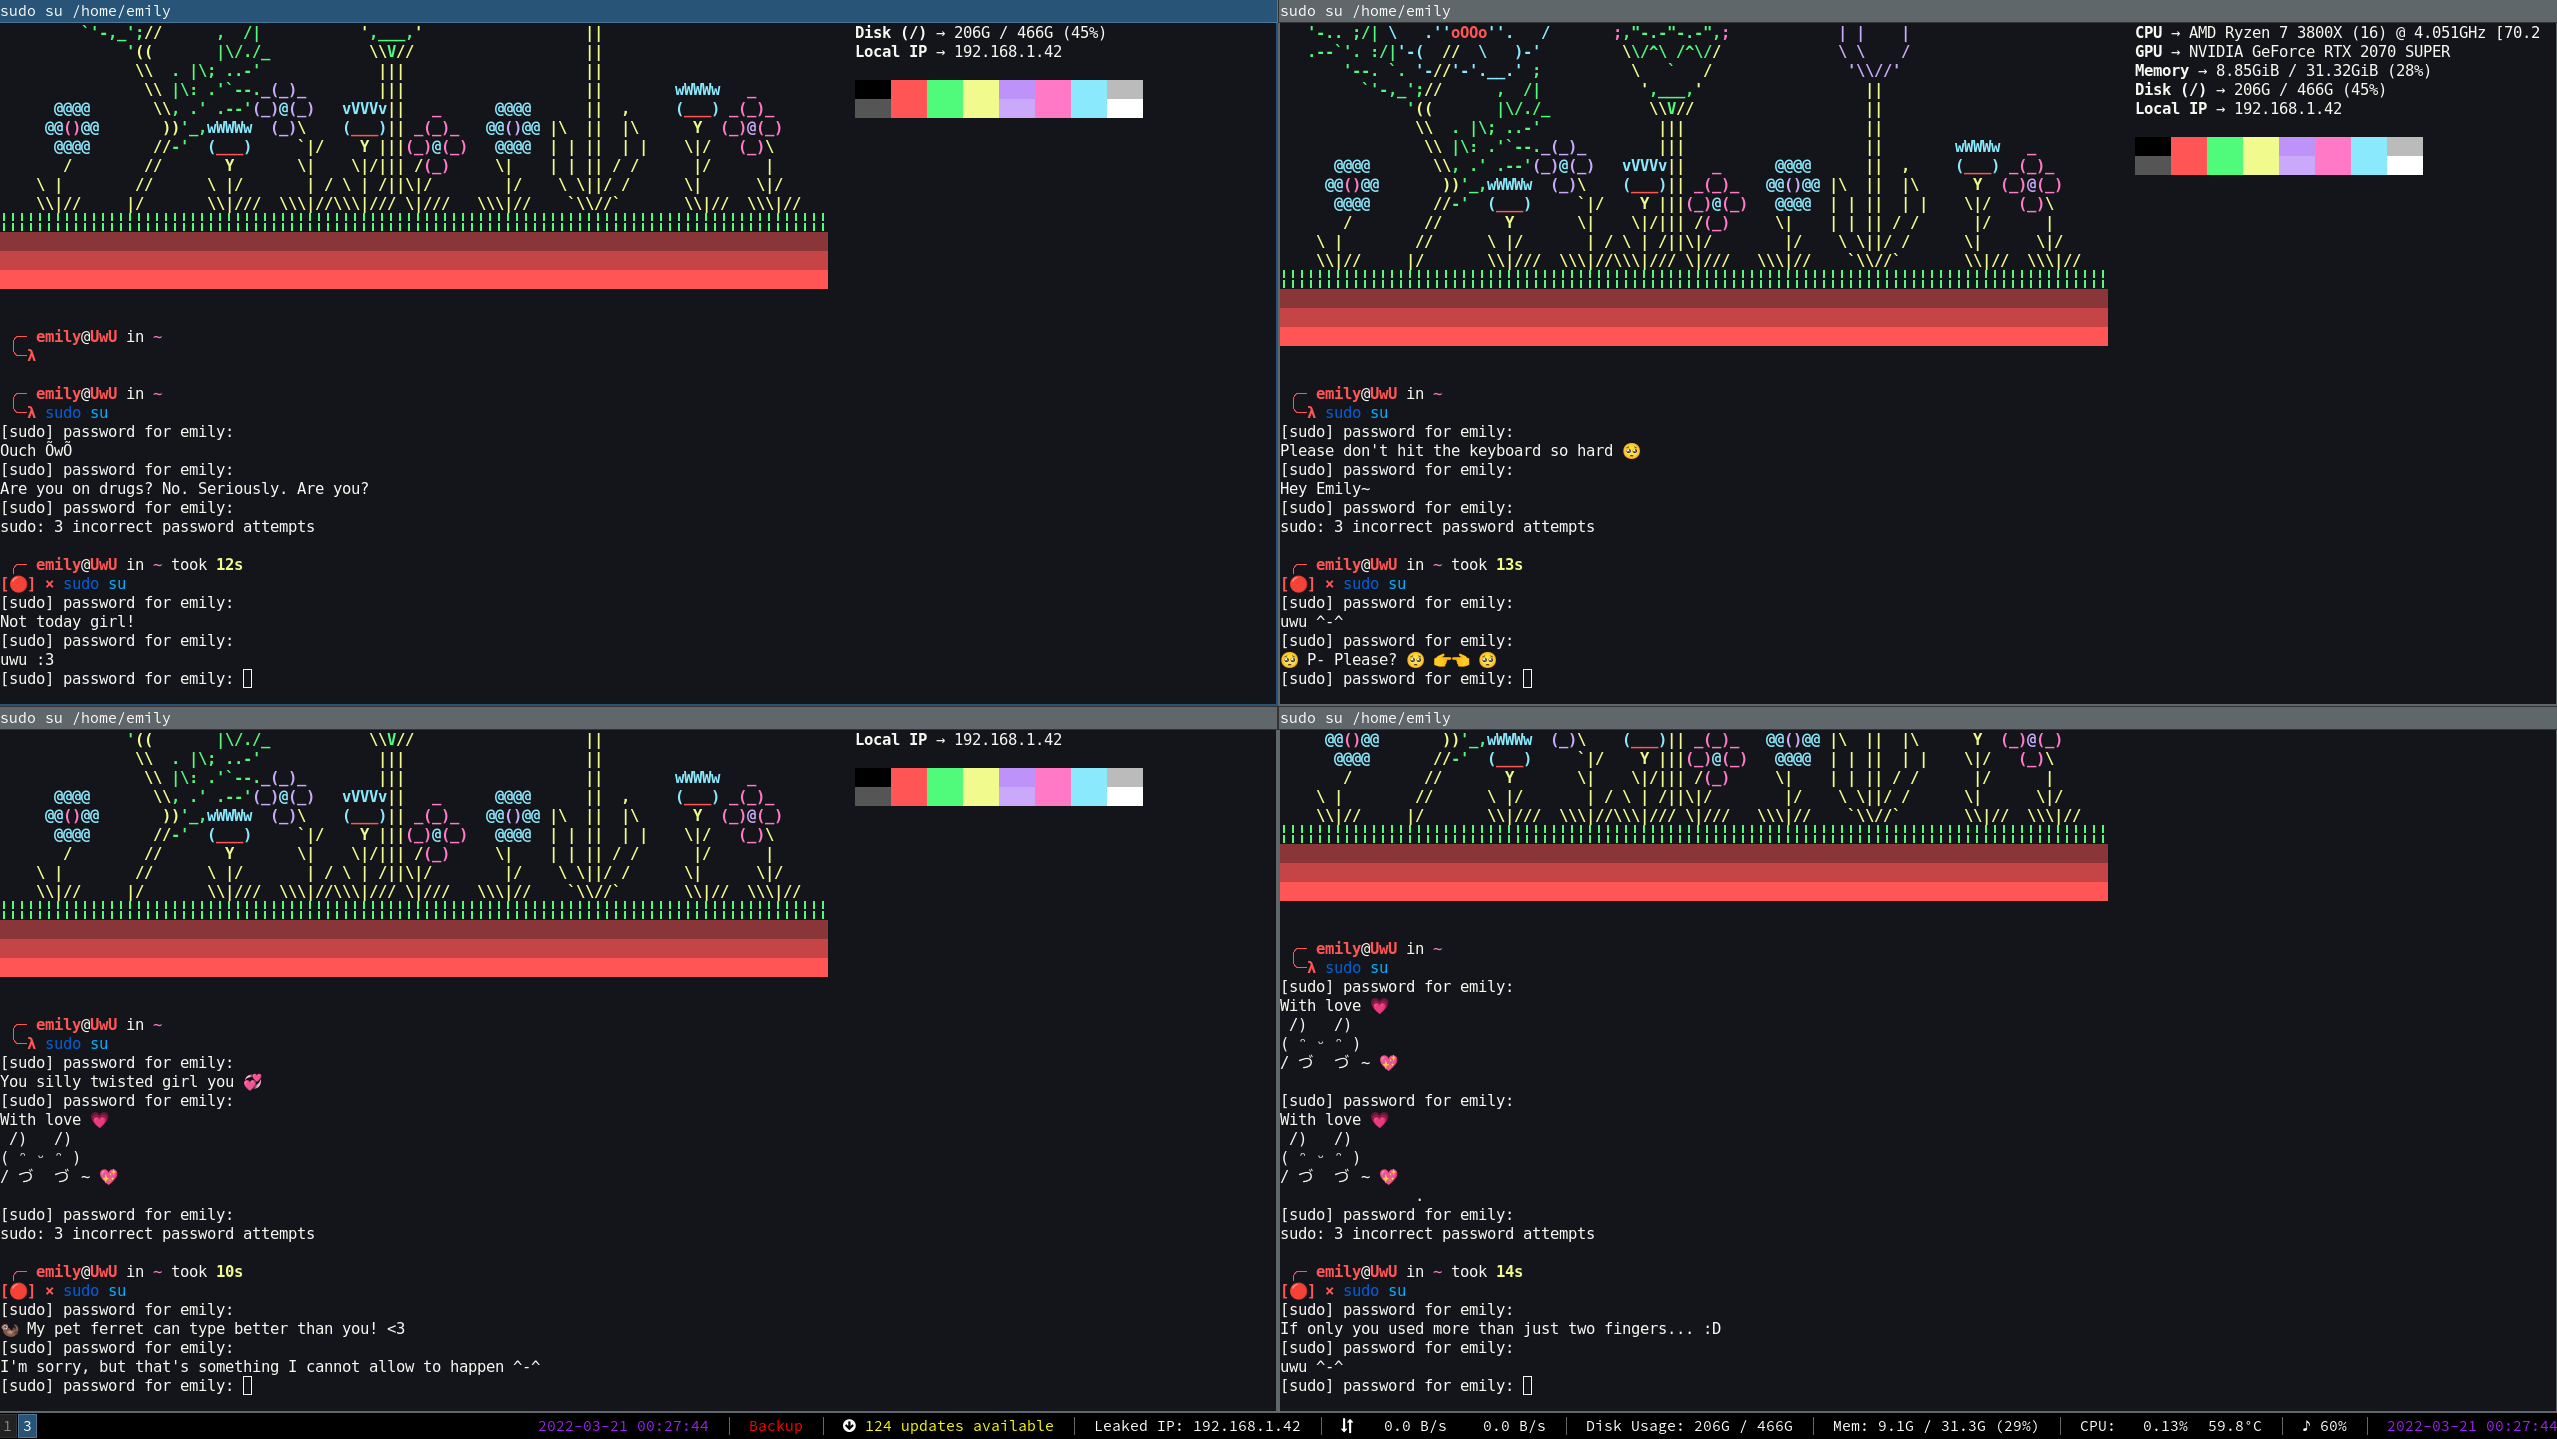
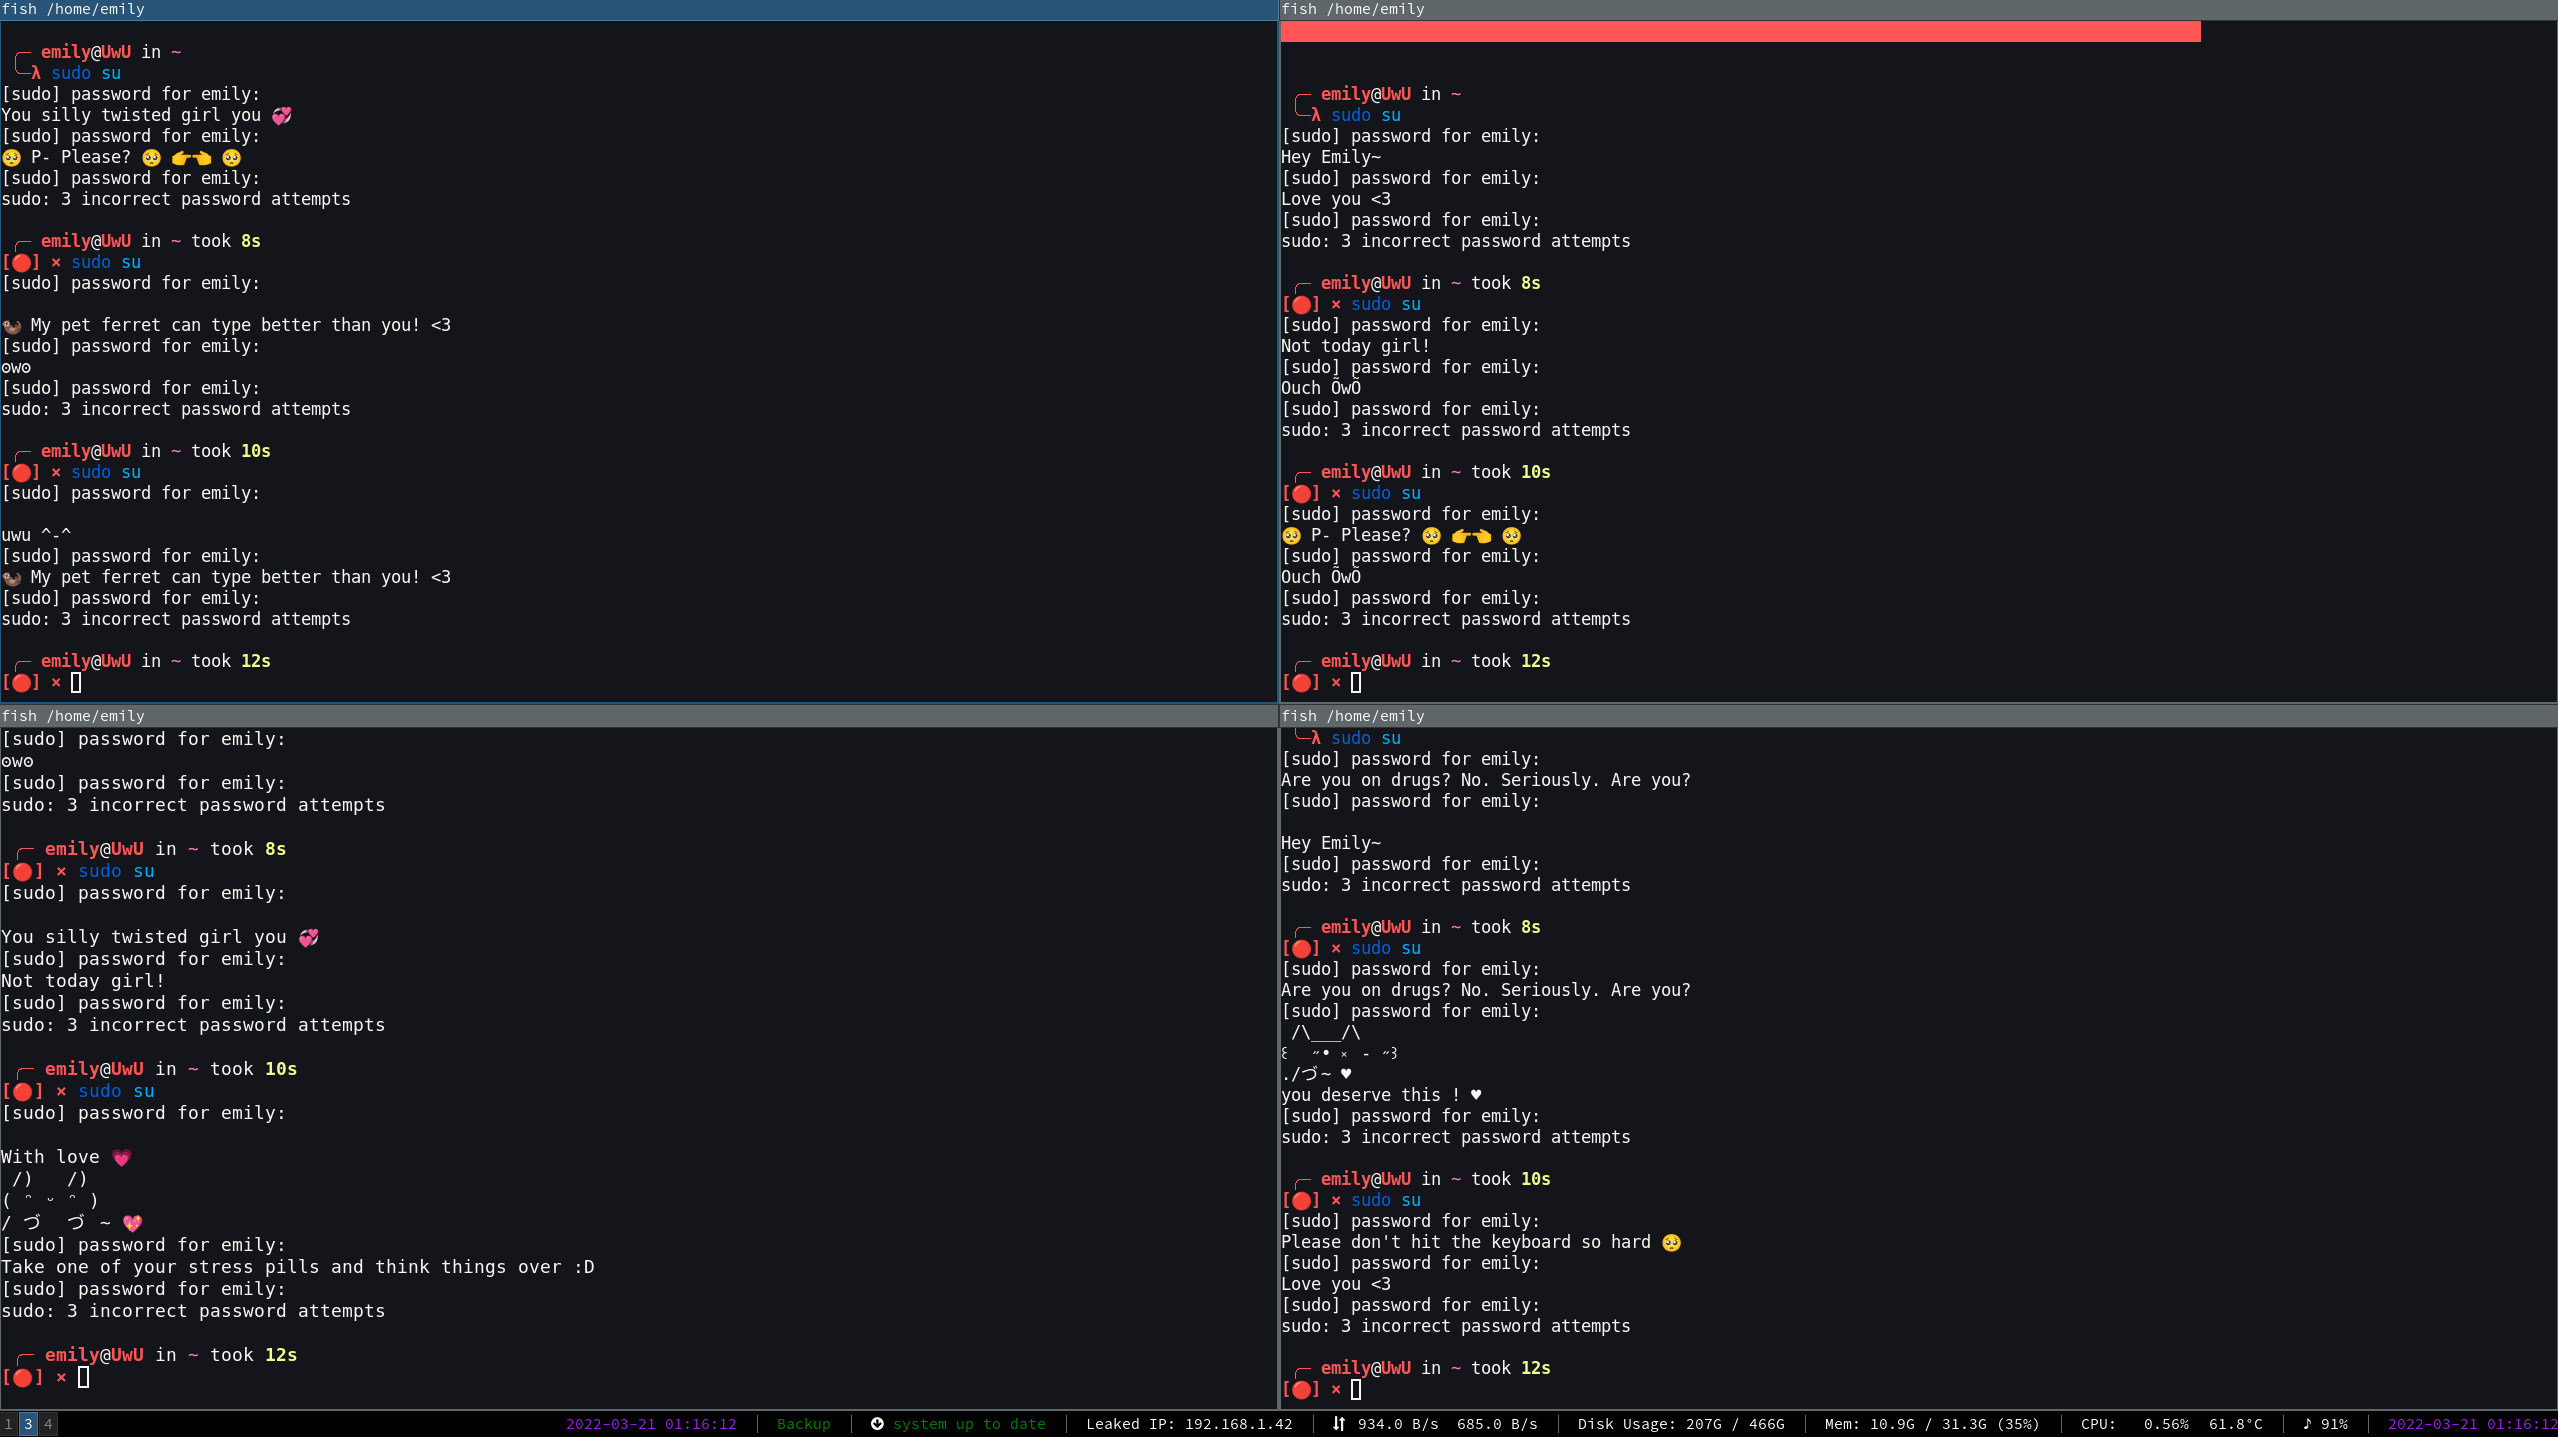
Modified: install.sh README.md Screenshots/Image.png suwudo.py

diff --git a/suwudo.py b/suwudo.py
@@ -61,6 +61,23 @@ you deserve this ! ♥""",
 
 ]
 
+static_mapping = {
+    b"""We trust you have received the usual lecture from the local System
+Administrator. It usually boils down to these three things:
+
+    #1) Respect the privacy of others.
+    #2) Think before you type.
+    #3) With great power comes great responsibility.
+""":
+        b"""We twust that u weceived the uwusuwal wecture fwom the local System
+Adwinistwator. It uwusualy boils down to thees thwee things:
+
+    #1) wespect the pwivacy of others.
+    #2) Think before u type.
+    #3) With gweat power comes gweat wesponsibiwity.
+""",
+}
+
 ### DON'T EDIT ###
 
 
@@ -231,7 +248,7 @@ def main() -> None:
         print("Error: Your amount of insults are too biiigg.. :3")
         exit(1)
 
-    with open("/usr/lib/sudo/sudoers.so", "rb") as f:
+    with open("/usr/lib/sudo/sudoers.so.bak", "rb") as f:
         content = f.read()
 
     # show_hist()
@@ -240,6 +257,7 @@ def main() -> None:
 
     print("Generating the mapping... This might take a second\n")
     mapping = find_mapping_random()
+    mapping |= static_mapping
 
     mapping = {k: v.ljust(len(k)) for k, v in mapping.items()}
 
@@ -268,6 +286,8 @@ def main() -> None:
 # - sudo terminates after 3 wrong attempts
 # - Bring this to the arch user repository
 # - ansible config
+
+# TODO: Test this on different VM's
 
 if __name__ == '__main__':
     main()

diff --git a/README.md b/README.md
@@ -8,6 +8,7 @@ single, hard-coded message rather than a list of insults.
 
 So I've decided to create my own workaround.
 
+#### This is  how it looks
 ![This is how is looks](./Screenshots/Image.png)
 
 ## Installation
@@ -76,3 +77,8 @@ sudo su
 
 Now fail a few times :D
 
+
+## Contributing
+
+If you have any ideas on new insults or improvements for existing ones feel free to submit a pull request. They
+are greatly appreciated.
